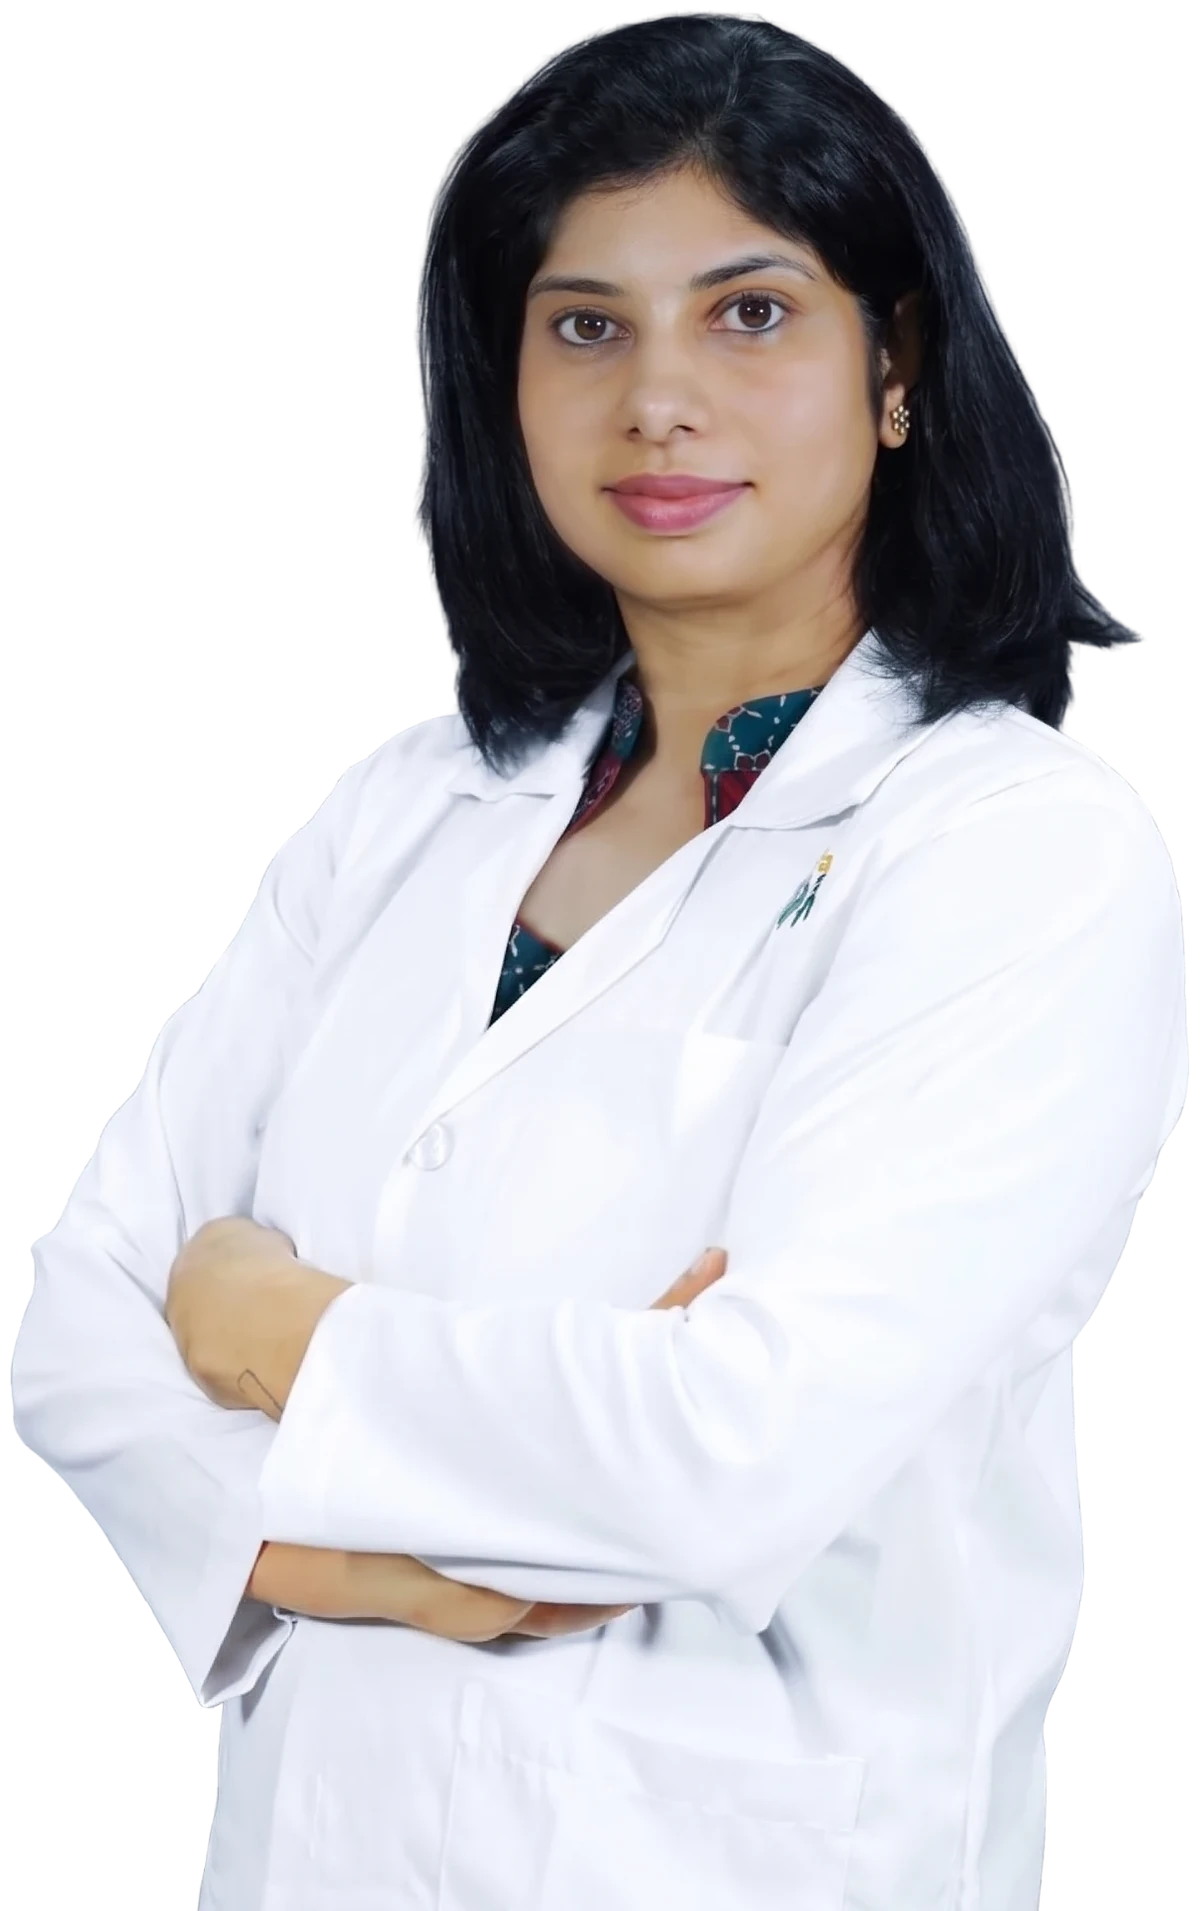
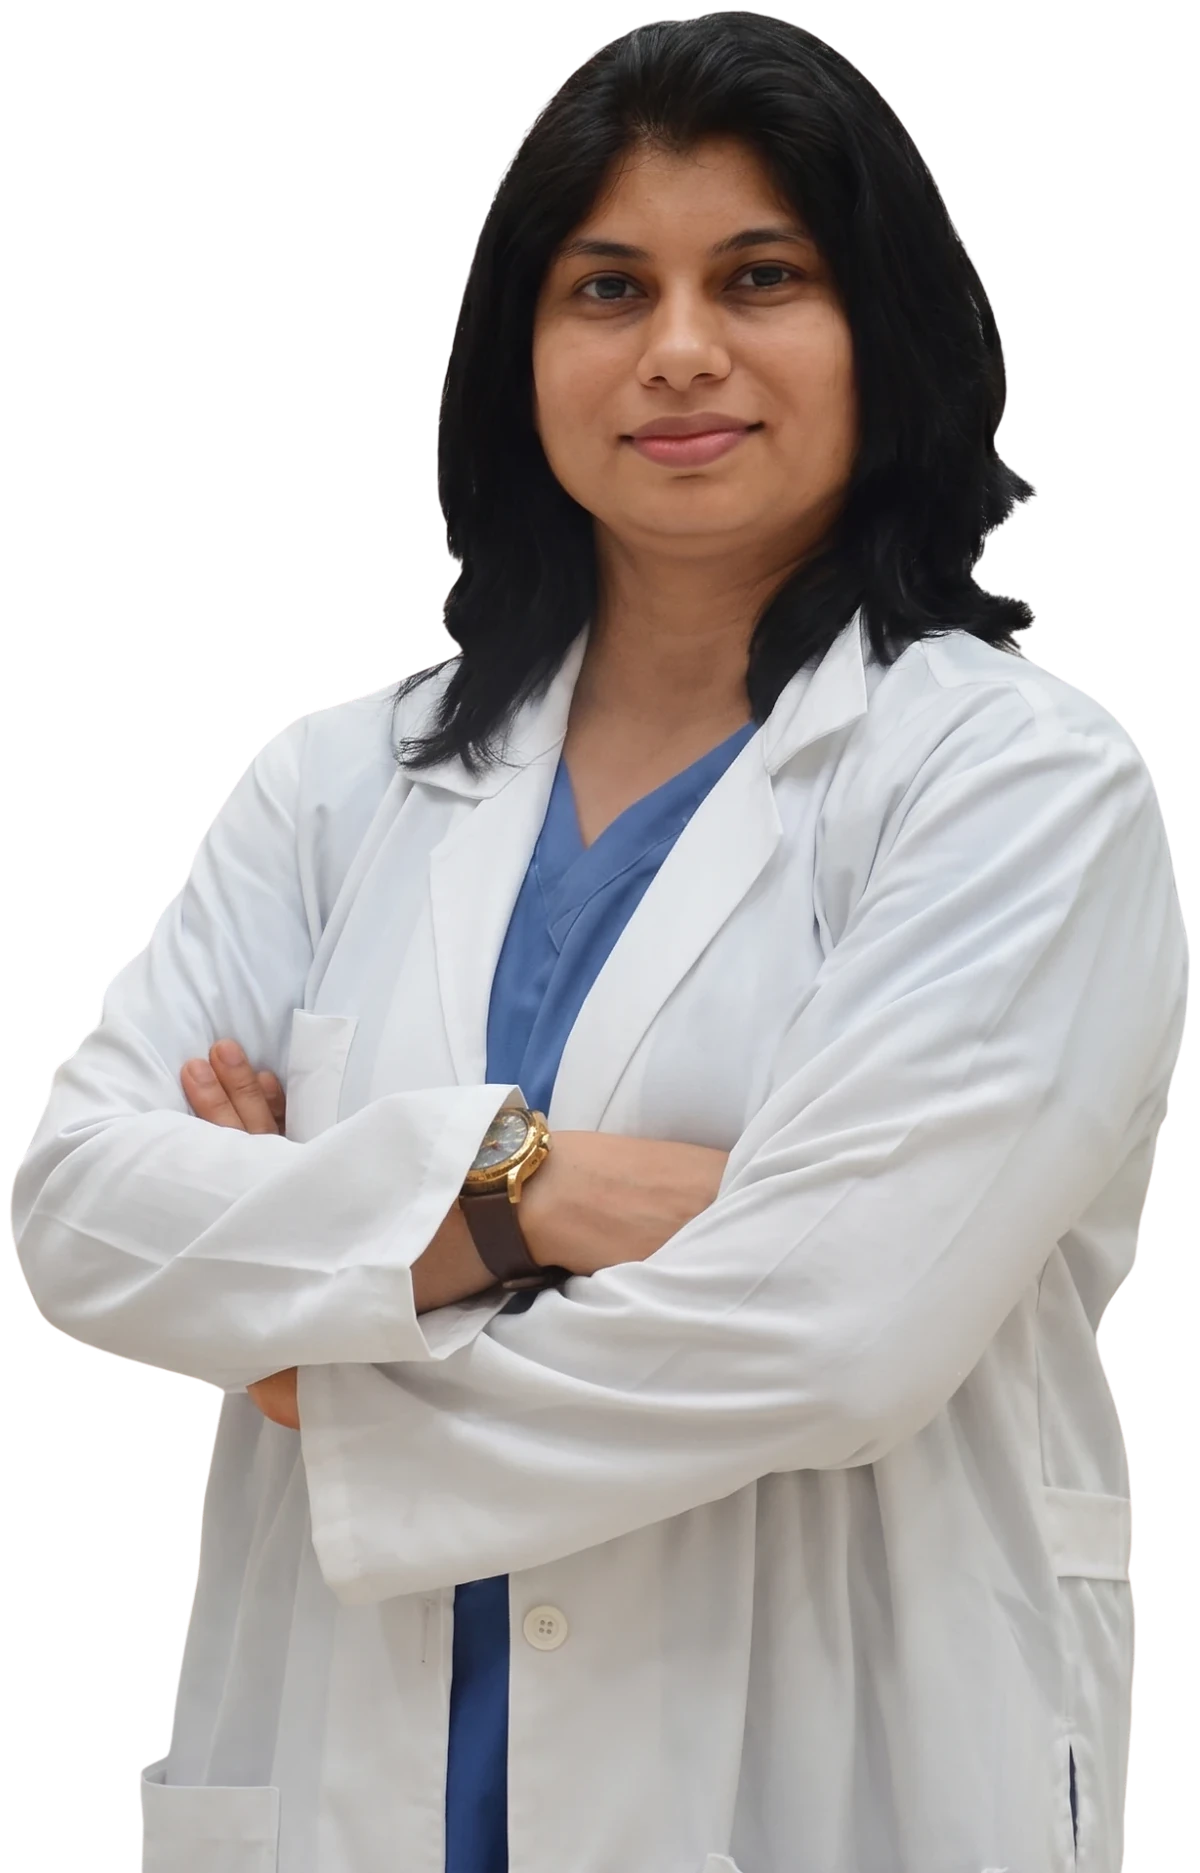
Replace hero portrait with new photo
Claude-Session: https://claude.ai/code/session_013ycr1JF4YBHcdn5DMPYCXy

diff --git a/index.html b/index.html
@@ -129,7 +129,7 @@
                    srcset="assets/images/dr-neema-bhat-720.webp 720w, assets/images/dr-neema-bhat.webp 1200w"
                    sizes="(max-width: 960px) 80vw, 460px"
                    alt="Dr. Neema Bhat, Hematologist and Pediatric Oncologist in Bangalore, in a white coat with arms folded, smiling"
-                   width="1200" height="1911" fetchpriority="high" decoding="async">
+                   width="1200" height="1873" fetchpriority="high" decoding="async">
               <span class="hv__chip hv__chip--a" aria-hidden="true"><i></i>Hematology</span>
               <span class="hv__chip hv__chip--b" aria-hidden="true"><i></i>Pediatric Oncology</span>
               <span class="hv__chip hv__chip--c" aria-hidden="true"><i></i>Bone Marrow Transplant</span>
